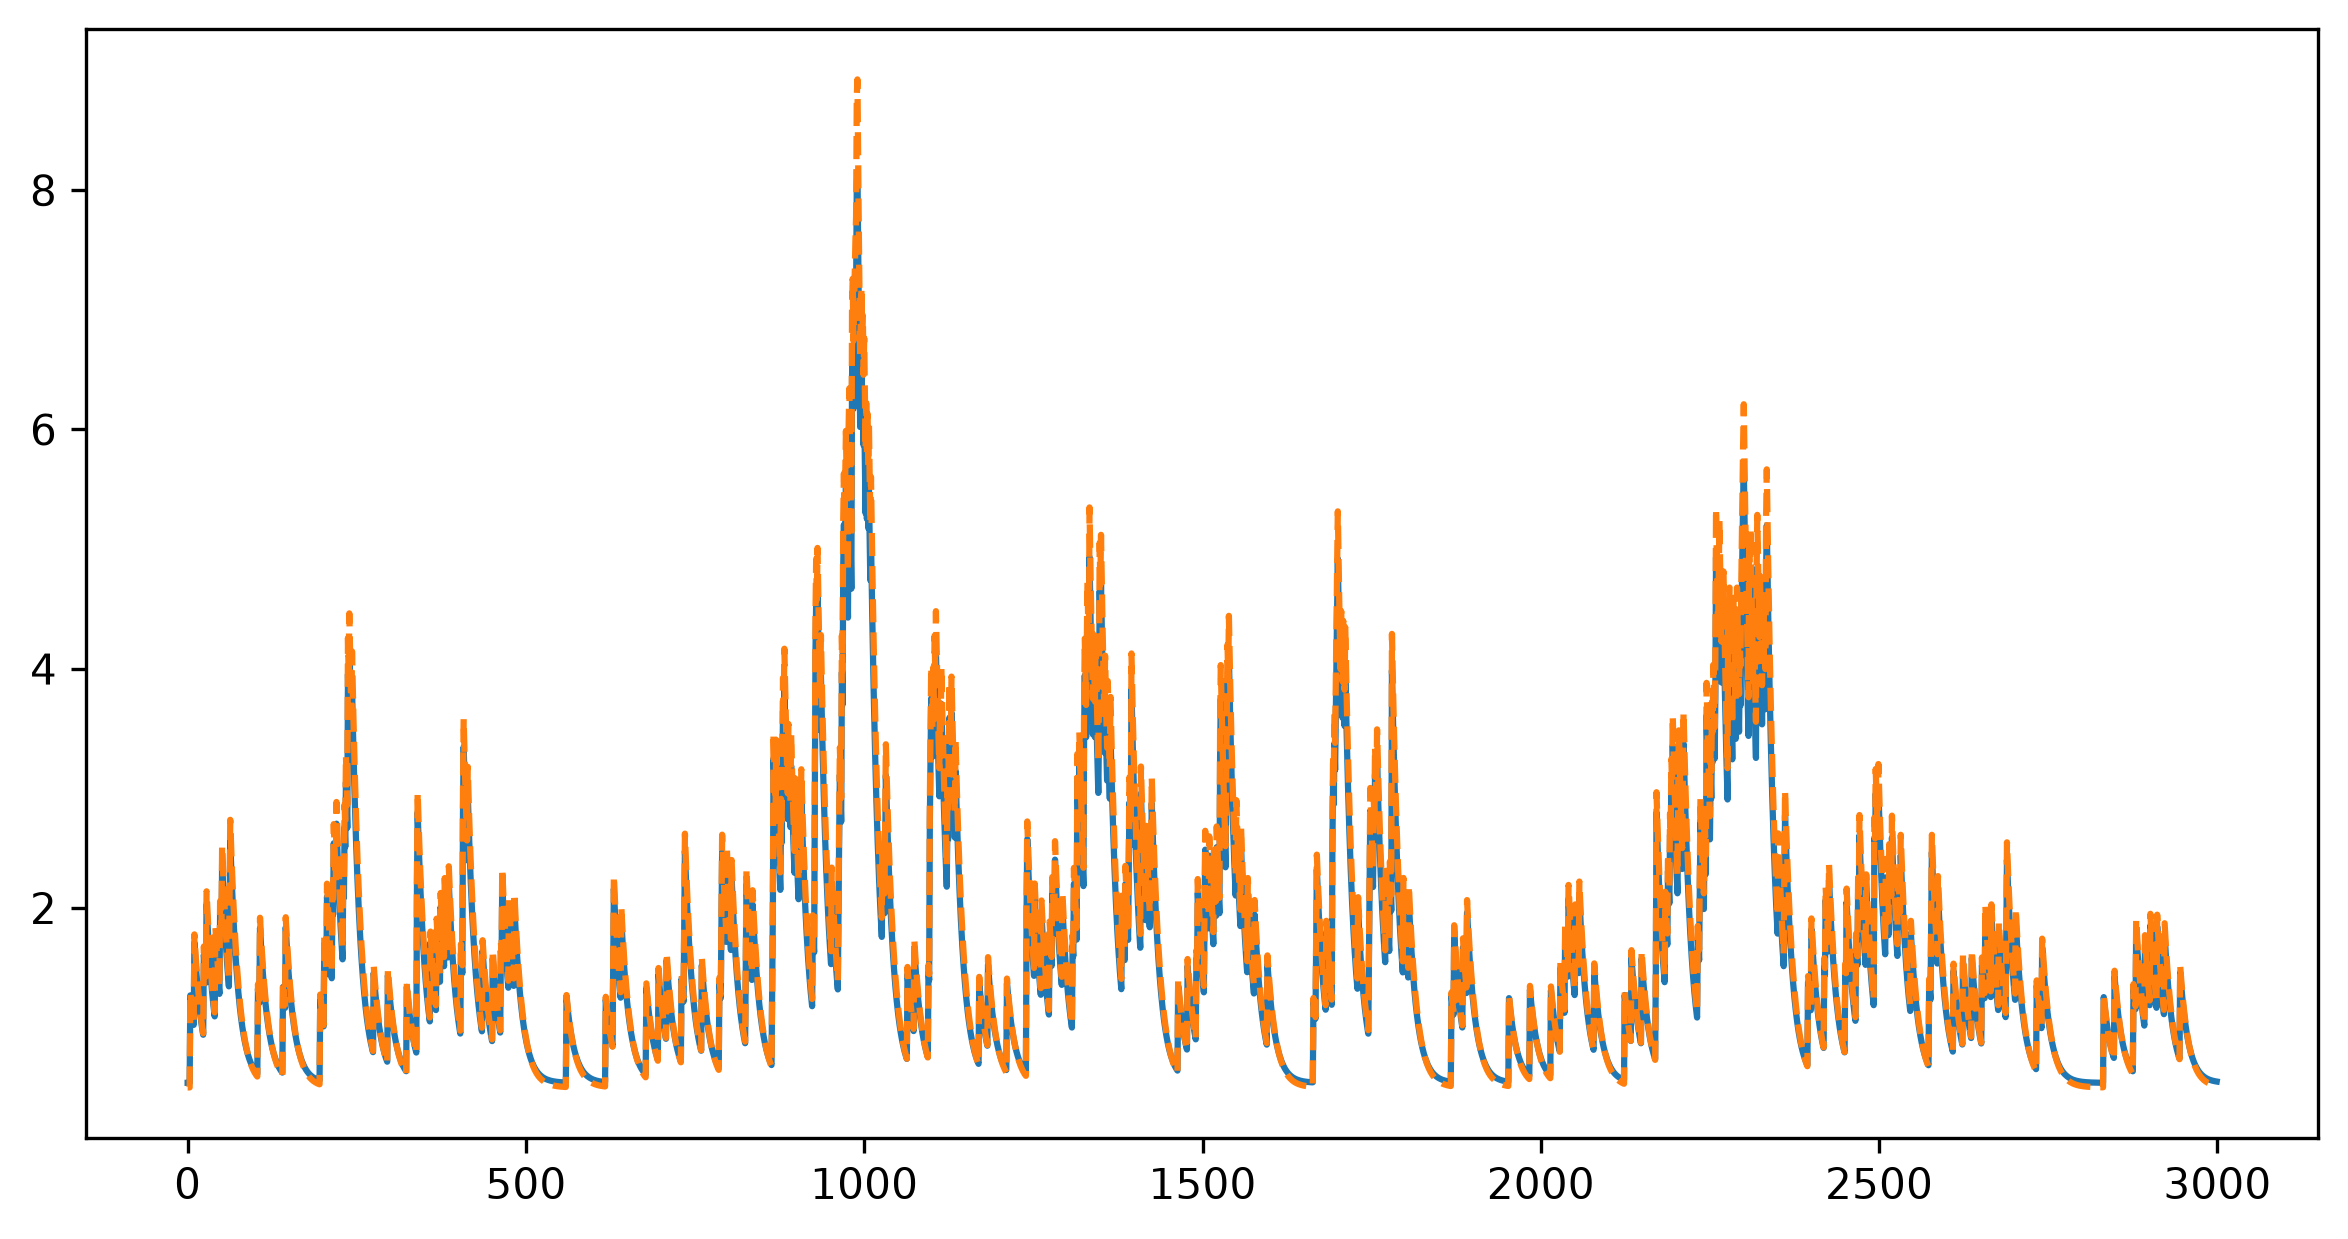
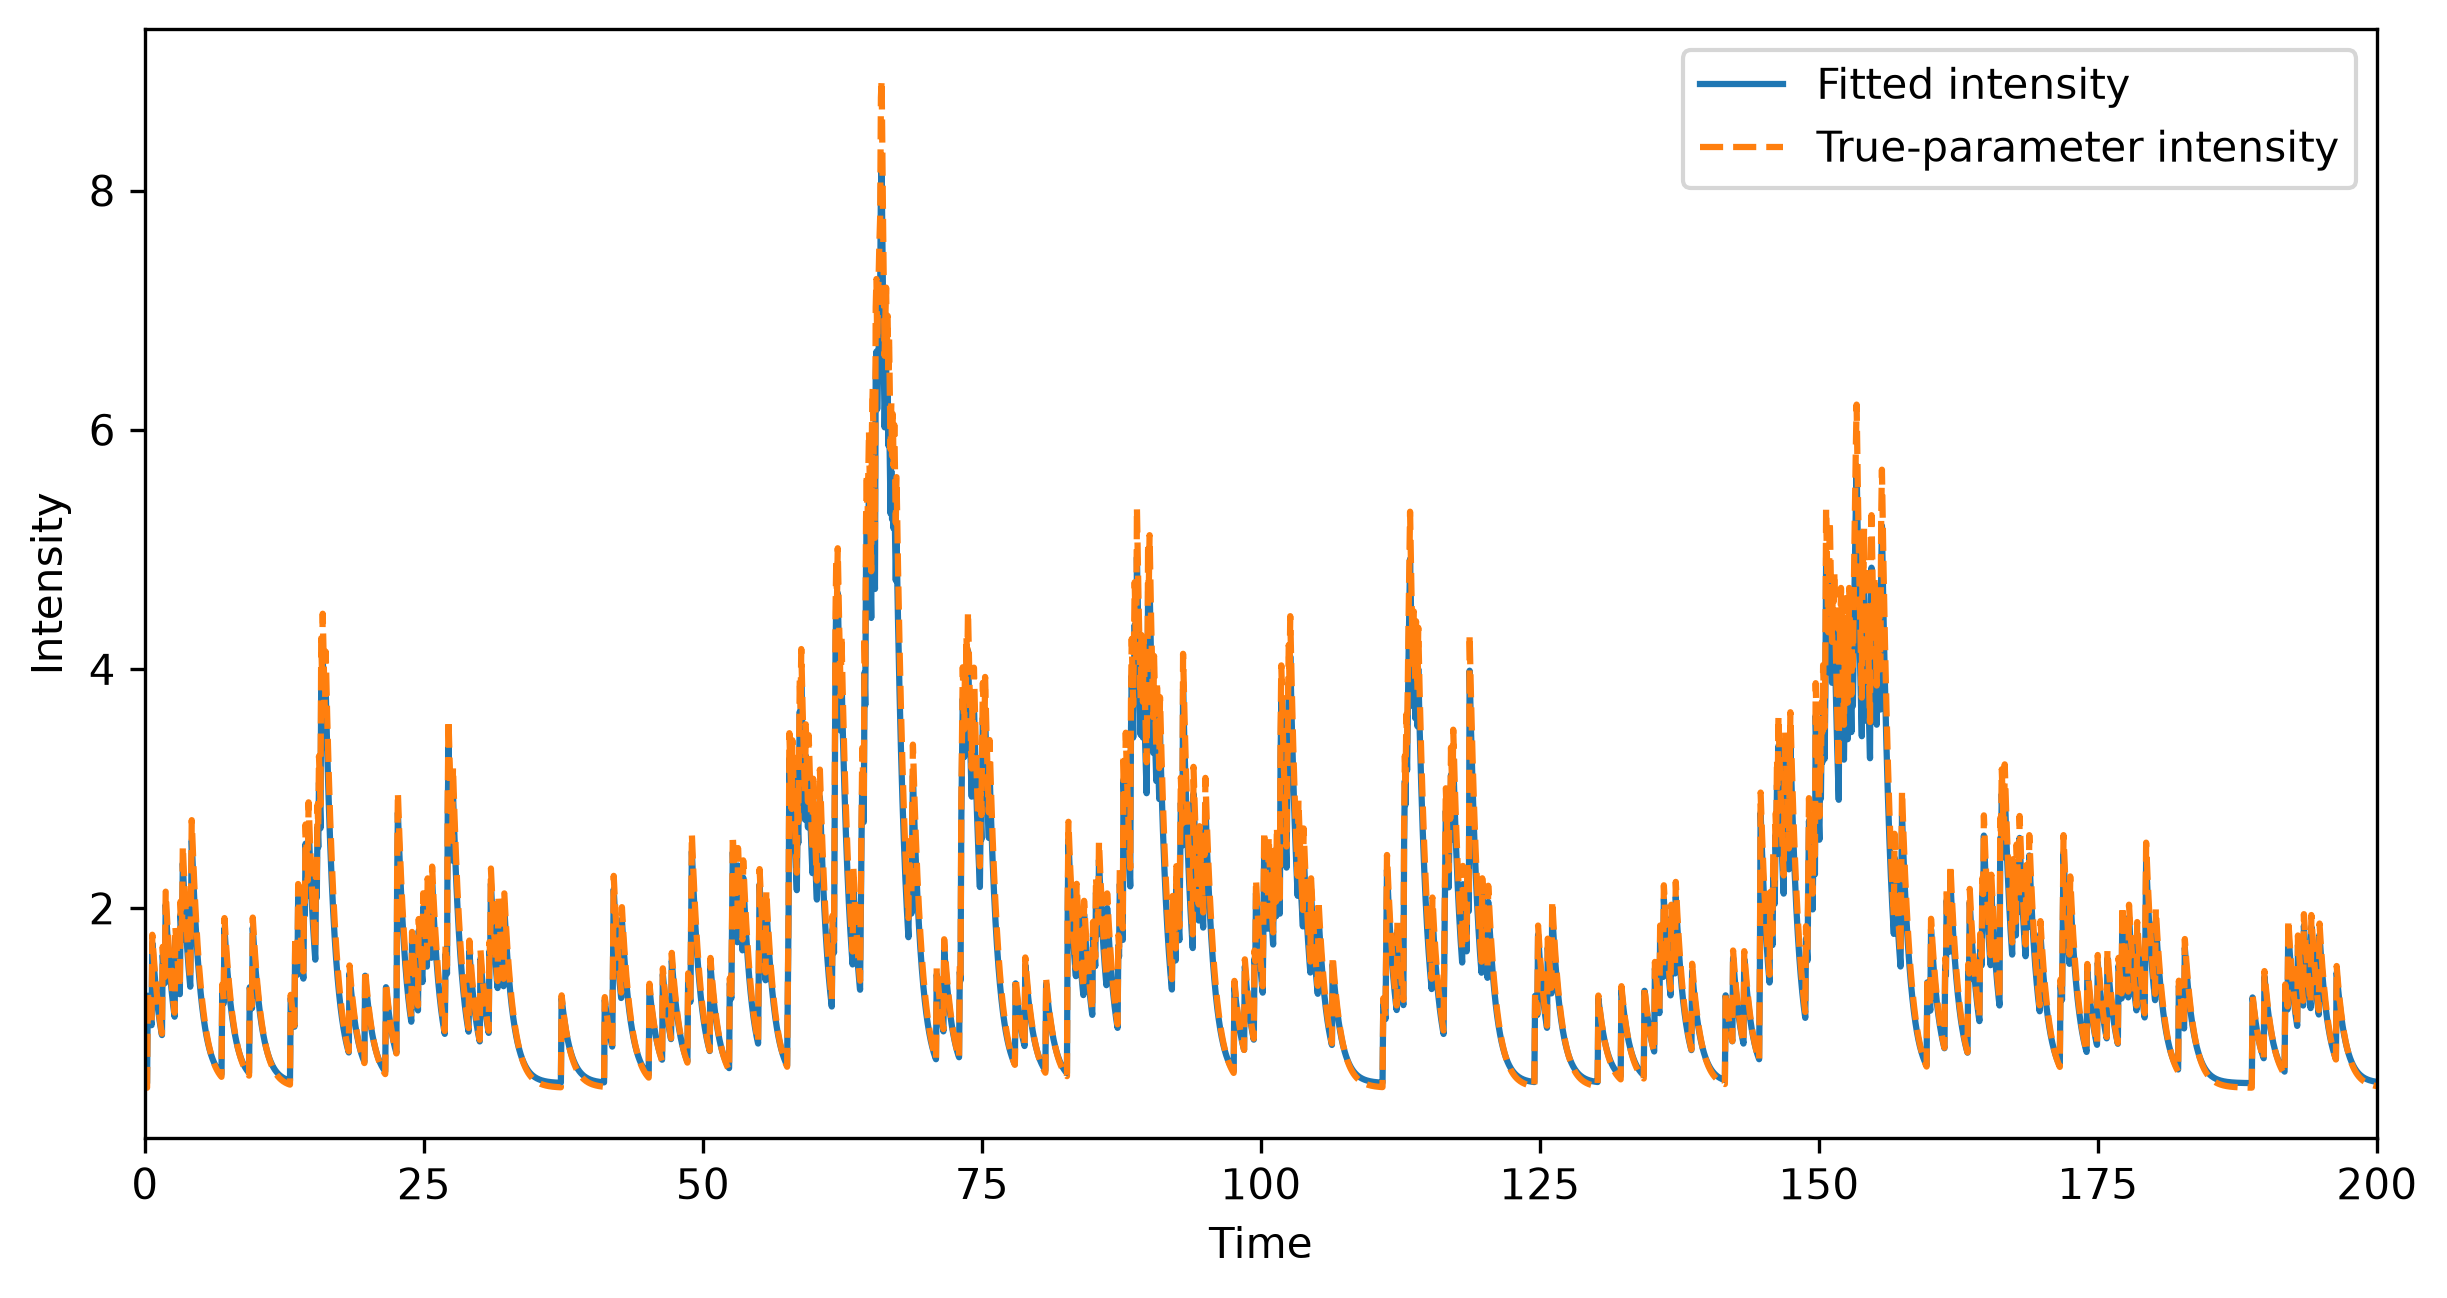
Fix: Having fixed the bug in plotting.

Changed region(s): [[0.0, 0.0, 0.9949, 0.9814]]

diff --git a/mle2nd.py b/mle2nd.py
@@ -1,4 +1,3 @@
-from pathlib import Path
 from scipy.special import expit
 from scipy.optimize import minimize
 import numpy as np
@@ -43,8 +42,7 @@ def negative_log_likelihood(params, events, T):
 
     return -log_sum + integral
 
-def intensity(mu, alpha, beta, events, T):
-    t_grid = np.linspace(0, T,  3000)
+def intensity(mu, alpha, beta, events, t_grid):
     time_difference = (
             t_grid[:, None] - events[None, :]
     )
@@ -81,14 +79,22 @@ if __name__ == '__main__':
     nll = negative_log_likelihood(result.x, test_set, T)
     print(nll / len(events))
     true_params = (0.5, 0.8, 1.2)
+    t_grid = np.linspace(0, T, 3000)
     fig_width, fig_height = plt.rcParams["figure.figsize"]
     plt.figure(figsize=(fig_width * 1.5, fig_height))
     plt.plot(
-        intensity(*unpack_params(result.x), test_set, T)
+        t_grid,
+        intensity(*unpack_params(result.x), test_set, t_grid),
+        label="Fitted intensity",
     )
     plt.plot(
-        intensity(*true_params, test_set, T),
-        linestyle = "dashed"
+        t_grid,
+        intensity(*true_params, test_set, t_grid),
+        linestyle="dashed",
+        label="True-parameter intensity",
     )
-    output_path = Path(__file__).resolve().with_name("evaluation.png")
-    plt.savefig(output_path, dpi=300, bbox_inches="tight")
+    plt.xlim(0, T)
+    plt.xlabel("Time")
+    plt.ylabel("Intensity")
+    plt.legend()
+    plt.savefig("evaluation", dpi=300, bbox_inches="tight")

diff --git a/README.md b/README.md
@@ -120,7 +120,7 @@ The script fits the model to all 264 events from a simulation over $[0,200]$ wit
 
 The script prints the test negative log-likelihood divided by the number of training events, $-\log L_{\mathrm{test}}/264$. With the current seeds, the score is approximately **0.3648**. The independent test simulation contains 356 events. When comparing models using the same test realization and denominator, a lower score corresponds to a higher test likelihood.
 
-The script also saves `evaluation.png` in the project root. The solid curve uses the fitted parameters, and the dashed curve uses the true parameters; both conditional intensities use the same test event history. The plot's horizontal axis shows the index of each of the 3,000 evenly spaced evaluation points over $[0,200]$.
+The script saves `figures/evaluation.png`. The solid curve uses the fitted parameters, and the dashed curve uses the true parameters; both conditional intensities use the same test event history. The horizontal axis shows time over $[0,200]$, sampled at 3,000 evenly spaced points.
 
 ![Fitted and true conditional intensities on an independent test simulation](figures/evaluation.png)
 
